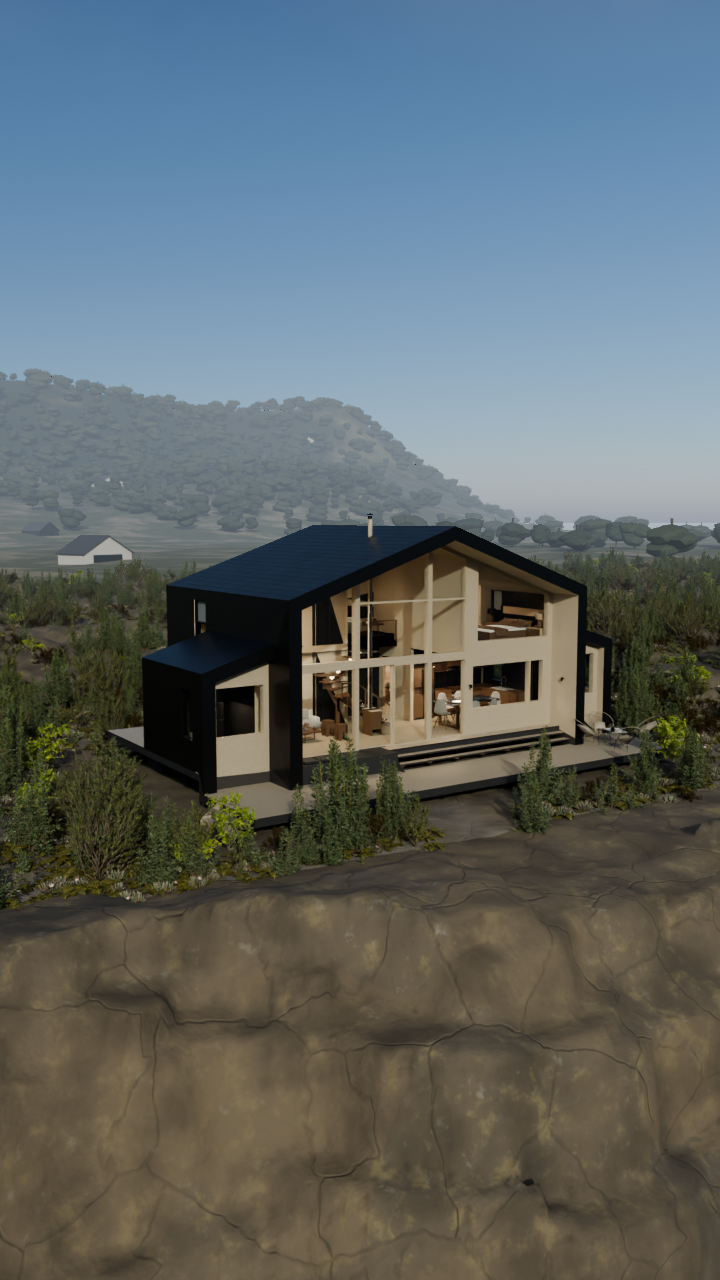
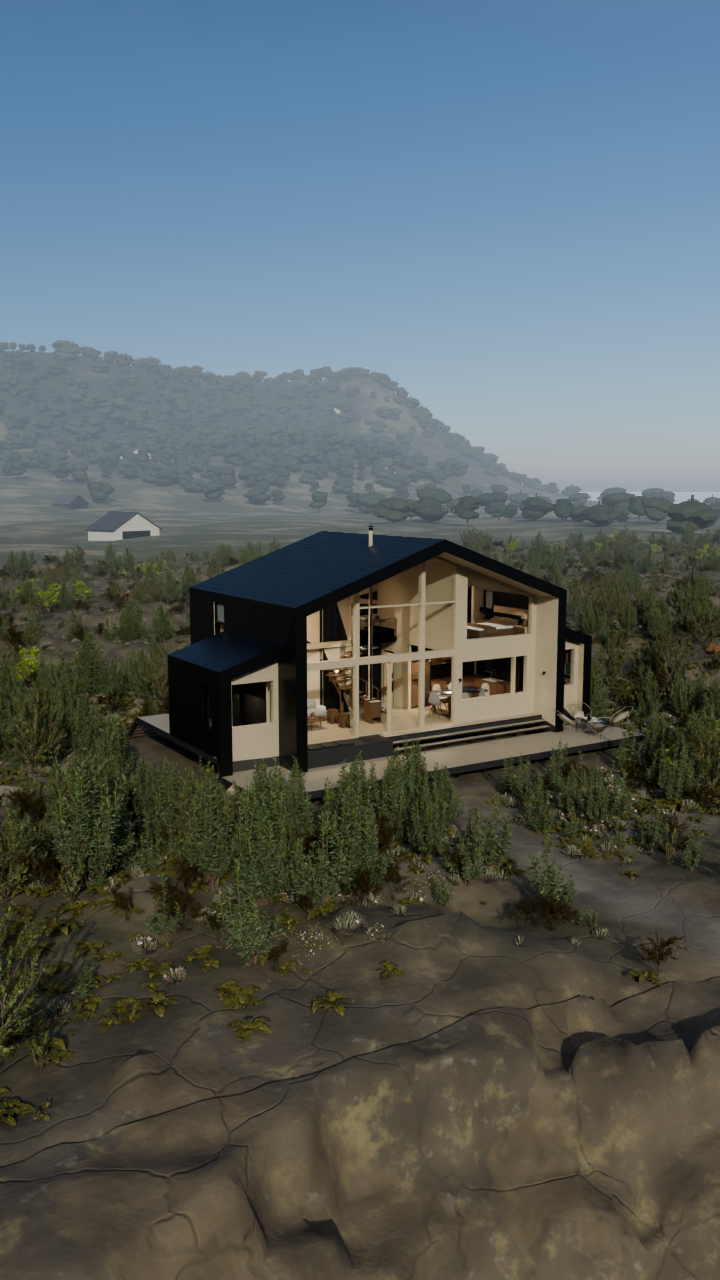
Maiten: la casa, mas lejos del borde del acantilado
"Que la casa se vea aun mas lejos del borde para que no pareciera que se va a caer."

La linea de agua pasa de 13 a 22 m del frente, asi que quedan ~17 m de plataforma llana entre
la terraza y el labio. Las tres lajas del agua se corren lo mismo y la malla fina de 0,25 m se
acota a la muralla y la rompiente (y -40..-14), donde hace falta.

Tambien suben las camaras del mar, de 2,5-3 a 14 m, y es parte del mismo arreglo: desde abajo
la plataforma se ve de canto y la casa parece asomada al vacio por mucho que este atras. A 14 m
entra la franja de plataforma y sigue entrando agua y rompiente en el tercio inferior; mas
arriba (se probo a 19) se gana la plataforma pero se pierde el horizonte y la escena deja de
leerse como mar. Las dos vistas cercanas se retiran a 27 m y suben a 9,5-10.

Y en RECETA.md queda anotado lo de la costa rocosa, que sirve para Roble y Cipres: el relieve
de una pared va en horizontal y no en vertical, un acantilado no se arma con piedras sueltas,
el agua opaca mar adentro, la espuma por lista explicita y no por profundidad, y que
coast_rocks_01 es una plataforma de abrasion de 60 x 42 m, no una roca.

Claude-Session: https://claude.ai/code/session_013App5N8A98PLWGsSjGfVFF

diff --git a/casa_maiten_3d.py b/casa_maiten_3d.py
@@ -60,10 +60,12 @@ HC = Vector((L / 2, D / 2))  # centro de la casa en planta
 PISO, PISO2 = 1.10, 3.85     # pisos terminados (la casa es de dos pisos)
 GROUND = 0.0                 # plataforma de roca bajo la casa (el zócalo del STL arranca en z = 0)
 SEA = -7.0                   # nivel del mar: la plataforma queda 7 m sobre el agua
-# La línea de agua se corrió de -9 a -13: la revisión pidió "poner la casa un poco más atrás
-# porque se ve como sobrepuesta sobre la roca". Con 9 m la terraza quedaba justo en el labio del
-# farellón y los afloramientos arrancaban debajo de ella.
-SHORE_Y = -13.0              # línea de agua frente a la casa
+# La línea de agua se fue corriendo con las revisiones: -9 → -13 → -22. La primera vez porque la
+# casa "se veía sobrepuesta sobre la roca"; la segunda porque, ya con el farellón hecho muralla,
+# "parecía que se iba a caer por el acantilado". Con 22 m quedan unos 17 de plataforma llana
+# entre la terraza y el labio, que es lo que se ve en cuadro y lo que da la sensación de que la
+# casa está parada en terreno firme y no en el borde.
+SHORE_Y = -22.0              # línea de agua frente a la casa
 SHORE_K = 520.0              # la orilla se abre hacia +Y a ambos lados: y = SHORE_Y + (x - XC)² / K
 XC = 8.1
 FPS = 24
@@ -84,9 +86,9 @@ FPS = 24
 # Siguen siendo una lista explícita porque `rocas_nodes` les arma el collar de espuma.
 #   (x, y, radio, alto sobre el nivel del mar)
 ROCAS = [
-    (4.5, -18.5, 3.2, 2.4),
-    (24.0, -21.0, 2.8, 2.0),
-    (-12.0, -16.5, 3.0, 2.2),
+    (4.5, -27.5, 3.2, 2.4),
+    (24.0, -30.0, 2.8, 2.0),
+    (-12.0, -25.5, 3.0, 2.2),
 ]
 
 
@@ -715,7 +717,7 @@ def build_boardwalk(M):
     y = -0.6
     i = 0
     z = terrain_h(path_x(y), y) + 0.14
-    while y > -15.0:
+    while y > -20.0:          # hasta el mirador, antes del labio del farellón
         cx = path_x(y)
         zt = terrain_h(cx, y) + 0.14
         if zt < z - 0.09:                       # escalón: la tabla se mantiene, baja la siguiente
@@ -963,10 +965,11 @@ def build_landscape(M):
     # 0,6 m de la malla cercana el relieve de escala corta —el que le da aristas a la piedra— no
     # llegaba a existir en la silueta y la roca se leía como arcilla lisa con las grietas pintadas
     # encima. Es la zona por la que además pasa más cerca el dron.
-    # ⚠ El borde de arriba va en y = -3 y no en +7. Con +7 la malla fina se comía **todo el
-    # entorno de la casa**, y como la vegetación se siembra sobre la malla cercana (`sand`), el
-    # frente y los costados de la casa quedaban pelados sin que se notara de dónde venía.
-    fina = (-46, 63, -35, -3)
+    # La malla fina cubre **sólo la muralla y la rompiente** (y -40..-14), que es donde el relieve
+    # de escala corta tiene que existir en la silueta. ⚠ Llegó a ir hasta y = +7 y se comía todo
+    # el entorno de la casa; como la vegetación se siembra sobre la malla cercana (`sand`), el
+    # frente y los costados quedaban pelados sin que se notara de dónde venía.
+    fina = (-46, 63, -40, -14)
     near = (-175, 128, -78, 95)
     en_fina = lambda x, y: fina[0] < x < fina[1] and fina[2] < y < fina[3]   # noqa: E731
     sand = grid("Roca", *near, 0.6, M["roca"], coll, skip=en_fina, sink=en_fina)
@@ -1647,16 +1650,18 @@ def setup_render():
 # que en Huingán** (11-15 m contra 16-17) y mirando algo hacia arriba: Maitén mide 8,10 m y el
 # enganche es la altura, que desde un dron alto se pierde (ENGANCHES.md, "si es la altura").
 VISTAS = {
-    "izq": ((-26.0, -46.0, 2.5), (5.0, 3.0, 4.6), 30),        # desde el agua, por el lado del porch
-    "der": ((40.0, -44.0, 3.0), (11.0, 3.0, 4.6), 30),        # desde el agua, por el lado del anexo
+    # Las del agua suben de 2,5 a 9 m: desde abajo la plataforma que separa la casa del labio no
+    # se ve y la casa parece asomada al vacío, que es lo que pidió corregir la revisión.
+    "izq": ((-26.0, -60.0, 14.0), (5.0, 4.0, 3.6), 30),       # desde el agua, por el lado del porch
+    "der": ((38.0, -58.0, 14.5), (11.0, 4.0, 3.6), 30),       # desde el agua, por el lado del anexo
     # opuestas: desde el acceso (el porch está en -X) y desde tierra adentro, con el mar detrás
     "izq_atras": ((-44.0, 28.0, 9.0), (6.0, 4.0, 3.6), 30),
     "der_atras": ((44.0, 40.0, 11.0), (10.0, 5.0, 3.6), 30),
     # las mismas dos del agua pero **más cerca y algo más altas** (pedido de la revisión): a 31 m
     # la casa ocupa ~0,85 del ancho de pantalla, y a 8 m la cámara pasa de mirar hacia arriba a
     # quedar apenas por encima del punto de mira, sin perder el farellón del primer plano
-    "izq_cerca": ((-11.6, -23.2, 8.0), (6.0, 3.5, 4.4), 30),
-    "der_cerca": ((27.3, -23.5, 8.5), (10.5, 3.5, 4.4), 30),
+    "izq_cerca": ((-13.0, -27.0, 9.5), (6.0, 3.5, 4.4), 30),
+    "der_cerca": ((29.0, -27.0, 10.0), (10.5, 3.5, 4.4), 30),
 }
 
 

diff --git a/RECETA.md b/RECETA.md
@@ -254,7 +254,7 @@ En **orden de trabajo** (el acordado con el usuario; `PENDIENTES.md` dice qué f
 | 4 | **Boldo** | Lago | Lago | `casa_huingan_3d.py` | ✅ hecho |
 | 5 | **Mañío** | Playa urbanizada | Playa | `casa_huingan_3d.py` | pendiente |
 | 6 | **Roble** | Nieve tipo centro de ski | Nieve | hereda de Peumo | pendiente |
-| 7 | **Maitén** | Mar roca | Costa rocosa | `casa_huingan_3d.py` | pendiente |
+| 7 | **Maitén** | Mar roca | Costa rocosa | `casa_huingan_3d.py` | escena lista, en revisión |
 | 8 | **Coihue** | Campo, *que se note el trigo* | Campo | `casa_lingue_3d.py` | pendiente |
 | 9 | **Ciprés** | Playa del norte (más seco) | Playa | `casa_huingan_3d.py` ⚠ | pendiente |
 
@@ -305,12 +305,38 @@ muerto. Las espigas en contraluz con el sol bajo son lo que da el efecto.
   porque el aire seco del norte deja ver lejos con nitidez. Sombras más marcadas y contrastadas.
   `flamingo_pan` es el HDRI más cercano a ese carácter árido. Arena más clara y amarilla.
 
-**Costa rocosa** (*Maitén*, "mar roca") — lo más cercano a Huingán: se hereda el océano completo
-(oleaje en tres escalas, espuma por profundidad). Lo que cambia es la orilla: en vez de la
-parábola suave de arena, una costa de **roca**. La firma visual es el **oleaje reventando contra
-la piedra**: concentrar la espuma donde el agua golpea la roca y agregar salpicadura. Paleta más
-oscura y fría que Huingán, roca húmeda con brillo especular en la zona de rompiente.
-`cape_hill` y `white_cliff_top` calzan con ese carácter.
+**Costa rocosa** (*Maitén*, "mar roca") — resuelto en `casa_maiten_3d.py`. Se hereda el océano
+completo de Huingán; lo que cambia es la orilla. Lo que costó, y vale para cualquier acantilado:
+
+- **El relieve de una pared se pone en horizontal, no en vertical.** Es lo más importante y lo
+  que costó tres revisiones. El ruido que `terrain_h` suma a la altura es vertical, y en una cara
+  de ~57° eso corre el punto *por la propia cara* sin cambiar la silueta: el farellón sale liso
+  por mucho ruido que se le ponga. Hay que perturbar **`shore_d`** —la distancia a la orilla,
+  perpendicular a la cara— con ruido en x e y: un metro de avance son metro y medio de altura y
+  aparecen contrafuertes, quebradas y repisas.
+- **Un acantilado no se arma con piedras sueltas.** Se intentó con afloramientos (domos de
+  terreno) y a cualquier tamaño se leen como bolones: grandes son huevos, chicos con la misma
+  altura son conos, y muchos juntos una camada. El acantilado es **terreno**: un perfil de bancos
+  (`perfil_muralla`, repisas casi horizontales separadas por caras casi verticales) más el ruido
+  horizontal de arriba. Las piedras sueltas quedan sólo como lajas bajas mar afuera, donde
+  revienta la ola.
+- **Mar adentro, agua opaca**, igual que en el lago de Boldo: con el fondo cayendo 0,45 m por
+  metro, a diez metros de la orilla ya hay cinco de agua. Con el agua transparente de Huingán se
+  ve la roca sumergida y el mar se lee como una explanada mojada.
+- **La espuma contra la roca no se puede calcular por profundidad.** Con un fondo así la franja
+  de agua baja mide dos metros y la ola revienta contra nada. Los afloramientos van en una lista
+  explícita (`ROCAS`) para que el shader del agua sepa dónde está cada piedra y les arme el
+  collar (`rocas_nodes`). Y la franja de rompiente al pie del farellón hay que desflecarla
+  fuerte: pareja y blanca pura se lee como mancha de pintura.
+- **Malla fina sólo en la muralla y la rompiente.** A 0,6 m el relieve de escala corta no existe
+  en la silueta; va una segunda malla a 0,25 m, acotada a esa franja. Ojo con estirarla hasta la
+  casa: la vegetación se siembra sobre la malla cercana y el entorno queda pelado.
+- `coast_rocks_01` de Poly Haven **no es una roca suelta**: es una plataforma de abrasión de
+  60 × 42 × 3,3 m. Sirve al pie del farellón; de detalle cercano, `namaqualand_boulder_02`.
+
+Paleta más oscura y fría que Huingán, roca húmeda con brillo especular en la rompiente.
+`white_cliff_top` es el HDRI elegido (`HDRI_SUN_U = 0.6243`, `SUN_ELEV = 23.2`); `cape_hill`
+tiene el carácter pero el sol a 4,2°, casi en el horizonte, deja la casa sin modelado.
 
 **Lago** (*Boldo*) — resuelto en `casa_boldo_3d.py`; lo que se aprendió, por si sirve para otra
 escena de agua quieta:
